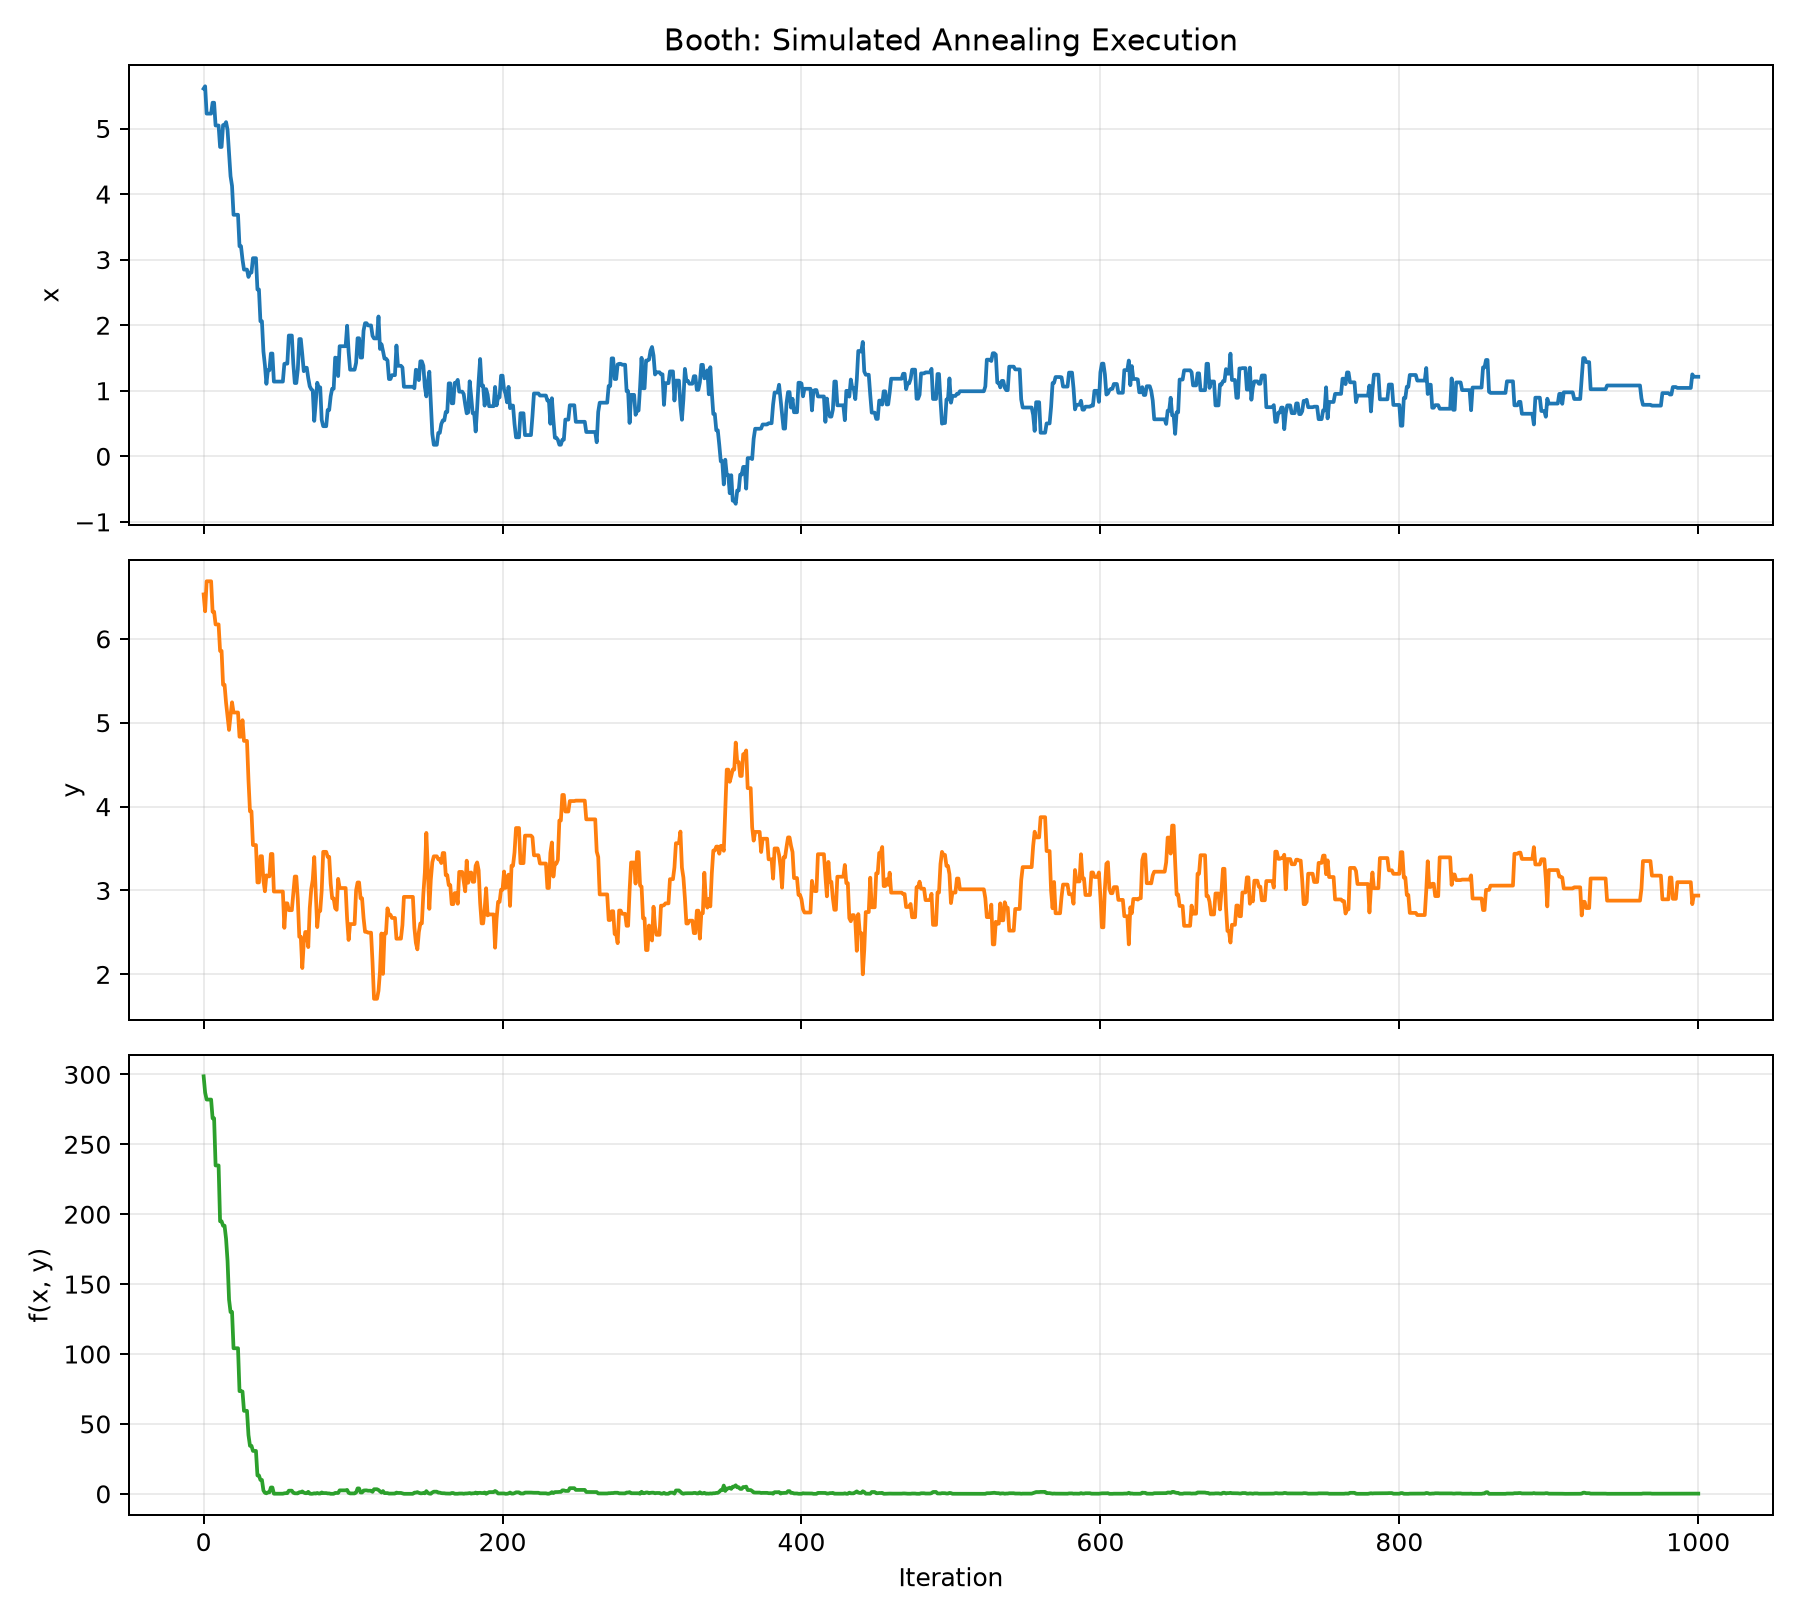
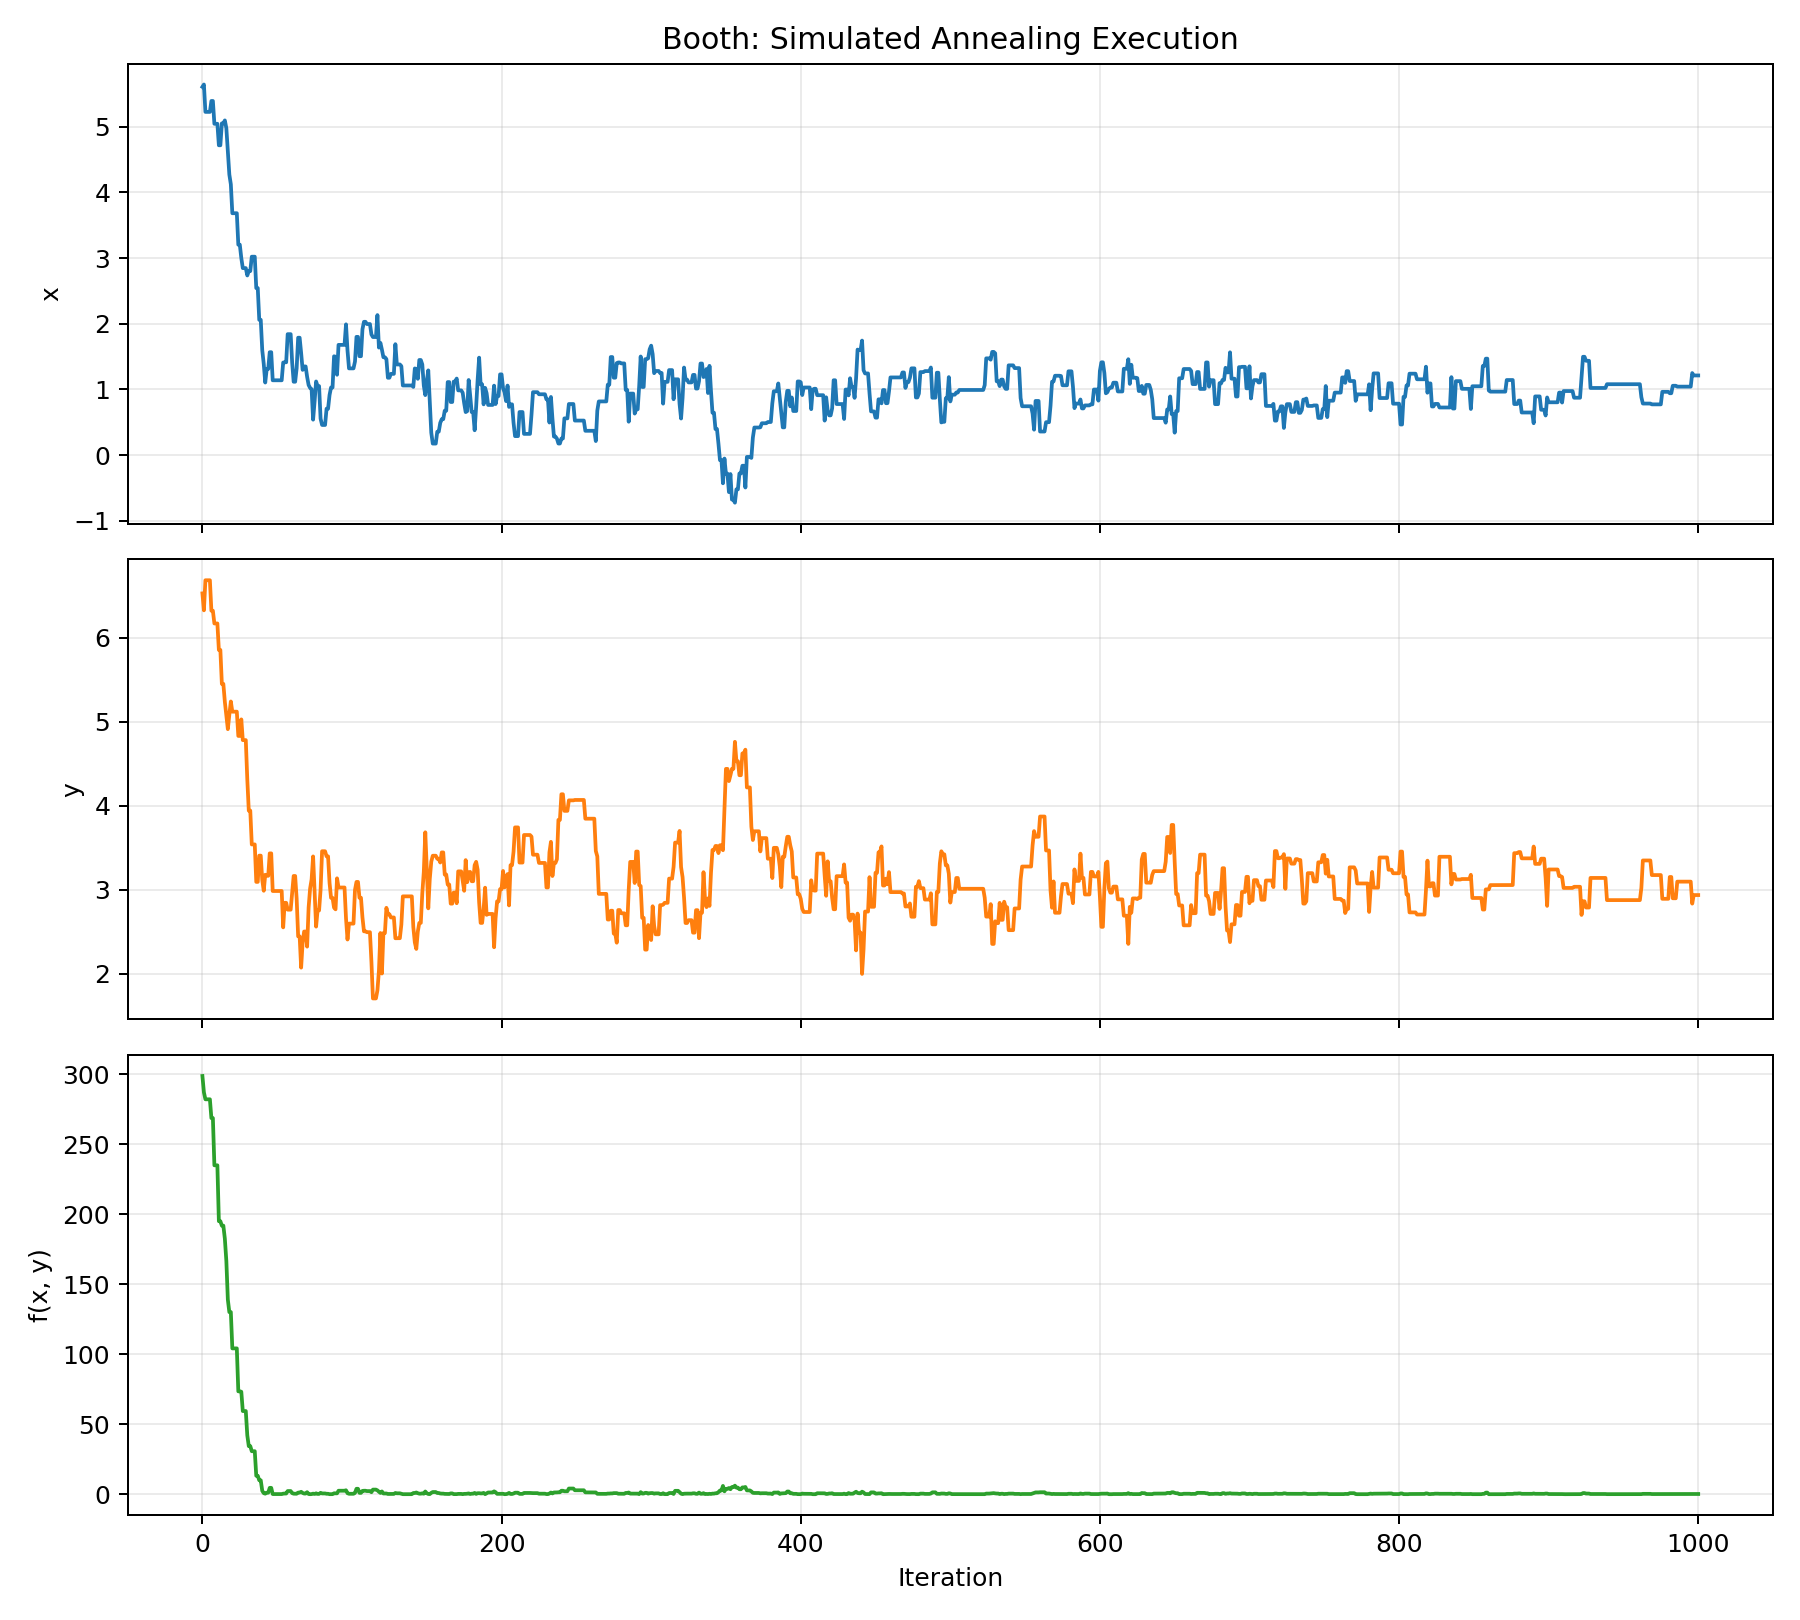
restructure astar for clarity

diff --git a/code/search.py b/code/search.py
@@ -90,51 +90,61 @@ def aStarSearch(problem):
     """
     queue = util.PriorityQueue()
     start = problem.getStartState()
-    startCost = 0
+    gValues = {start: 0}        # state -> cheapest gn found so far
+    parent = {}                 # state -> (previous state, action taken)
+    visited = set()             # states whose optimal gn is finalized
 
-    # Each queue item stores: (current state, actions taken, path cost).
-    queue.push((start, [], startCost), problem.getHeuristic(start))
 
-    bestCost = {start: startCost}
+    startHn = problem.getHeuristic(start)
+    startFn = 0 + startHn
+    queue.push(start, startFn)
+
     nodesExpanded = 0
 
     print("Beginning A* search:\n")
 
     while not queue.isEmpty():
-        state, path, pathCost = queue.pop()
+        state = queue.pop() # get cheapest fn state
 
-        # Ignore an older queue entry if a cheaper path to this state was
-        # discovered after the entry was added.
-        if pathCost > bestCost.get(state, float('inf')):
-            continue
+        if state in visited:
+            continue # if optimal path to state alr present, skip
 
+        visited.add(state)
         nodesExpanded += 1
         print("Node Expanded: ", state)
 
+        gn = gValues[state]
+ 
         if problem.isGoalState(state):
-            print("Goal state reached. Path observed:")
-            for action in path:
-                print(action)
+            return _reconstructPath(parent, state), gn, nodesExpanded
 
-            print("Number of nodes expanded", nodesExpanded)
-            print("Total cost: ", pathCost)
-            return path, pathCost, nodesExpanded
-
-        # Ask the problem for successors because a state may be a coordinate
-        # tuple or a location string; the state itself does not own this method.
         for successor, action, stepCost in problem.getSuccessors(state):
             if stepCost < 0:
                 raise ValueError("A* Search requires non-negative costs")
 
-            newCost = pathCost + stepCost
+            gnSuccessor = gn + stepCost
 
-            if newCost < bestCost.get(successor, float('inf')):
-                bestCost[successor] = newCost
-                newPath = path + [action]
-                priority = newCost + problem.getHeuristic(successor)
-                queue.push((successor, newPath, newCost), priority)
+            if successor not in gValues or gnSuccessor < gValues[successor]:
+                gValues[successor] = gnSuccessor
+                parent[successor] = (state, action)
+
+                hnSuccessor = problem.getHeuristic(successor)
+                fnSuccessor = hnSuccessor + gnSuccessor
+
+                queue.update(successor, fnSuccessor)
 
     return None, float('inf'), nodesExpanded
+
+def _reconstructPath(parent, goal):
+    path = []
+    state = goal
+    while state in parent:
+        previousState, action = parent[state]
+        path.append(action)
+        state = previousState
+    path.reverse()
+    return path
+
 
 
 
